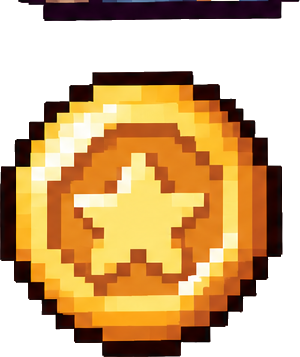
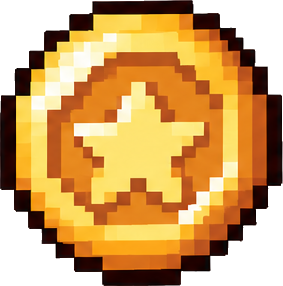
fix(coin): 金币素材只保留最大连通块（清掉上方漏出的卡框残条）；个人详情页去掉金币的浅棕底框
1) 金币上方漏出的一点内容：用连通块分析确认并只保留最大的连通块（金币本体），其余置透明后按 alpha 收紧，
   四角 alpha 均为 0（自检打印）。
2) 用户要求删掉金币外层的"浅棕色底"：GrowthPage 的容器 className 由
   "shrink-0 border-2 border-ink/60 bg-panel/10 px-2 py-1.5 text-center" 改为 "shrink-0 px-2 py-1.5 text-center"，
   金币/文字直接落在深棕面板上。
验证：web tsc 通过；--no-cache 重建 + 强制重建容器；browser-check 全量见日志。

diff --git a/apps/web/src/pages/GrowthPage.tsx b/apps/web/src/pages/GrowthPage.tsx
@@ -102,7 +102,7 @@ export function GrowthPage() {
               </span>
             </div>
           </div>
-          <div className="shrink-0 border-2 border-ink/60 bg-panel/10 px-2 py-1.5 text-center">
+          <div className="shrink-0 px-2 py-1.5 text-center">
             <img
               src="/ui/coin.png"
               alt=""

diff --git a/visualasset/_clean_coin.py b/visualasset/_clean_coin.py
@@ -1,0 +1,40 @@
+from PIL import Image
+from collections import deque
+p = r"C:\Users\48489\Desktop\time\apps\web\public\ui\coin.png"
+im = Image.open(p).convert("RGBA")
+w, h = im.size
+a = im.split()[3].load()
+seen = bytearray(w * h)
+comps = []
+for y0 in range(h):
+    for x0 in range(w):
+        i = y0 * w + x0
+        if seen[i] or a[x0, y0] <= 40:
+            continue
+        q = deque([(x0, y0)]); seen[i] = 1
+        px_list = [(x0, y0)]
+        while q:
+            x, y = q.popleft()
+            for dx, dy in ((1,0),(-1,0),(0,1),(0,-1)):
+                nx, ny = x+dx, y+dy
+                if 0 <= nx < w and 0 <= ny < h:
+                    j = ny * w + nx
+                    if not seen[j] and a[nx, ny] > 40:
+                        seen[j] = 1; q.append((nx, ny)); px_list.append((nx, ny))
+        comps.append(px_list)
+comps.sort(key=len, reverse=True)
+print("连通块数量:", len(comps), "各块像素数:", [len(c) for c in comps[:5]])
+# 只保留最大的连通块（金币本体），其余（漏出的卡框残条）置透明
+keep = set(comps[0]) if comps else set()
+for c in comps[1:]:
+    for (x, y) in c:
+        r, g, b, _ = im.getpixel((x, y))
+        im.putpixel((x, y), (r, g, b, 0))
+box = im.split()[3].point(lambda v: 255 if v > 40 else 0).getbbox()
+if box:
+    im = im.crop(box)
+im.save(p)
+cw, ch = im.size
+print("清理后", im.size)
+print("四角 alpha:", [im.getpixel(q)[3] for q in ((0,0),(cw-1,0),(0,ch-1),(cw-1,ch-1))])
+print("中心:", im.getpixel((cw//2, ch//2))[:3], im.getpixel((cw//2, ch//2))[3])
